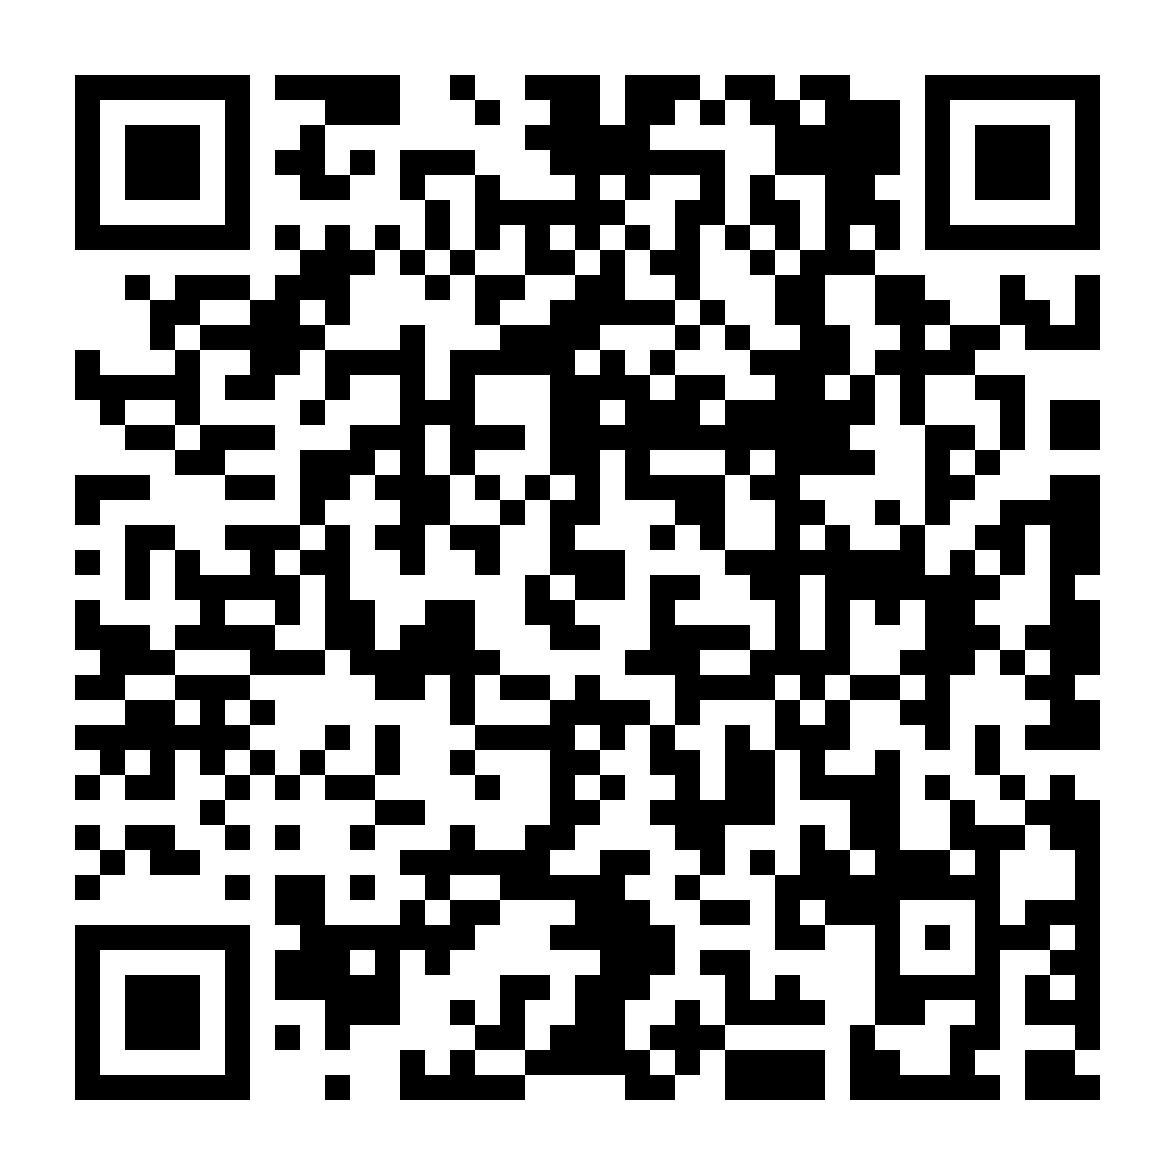
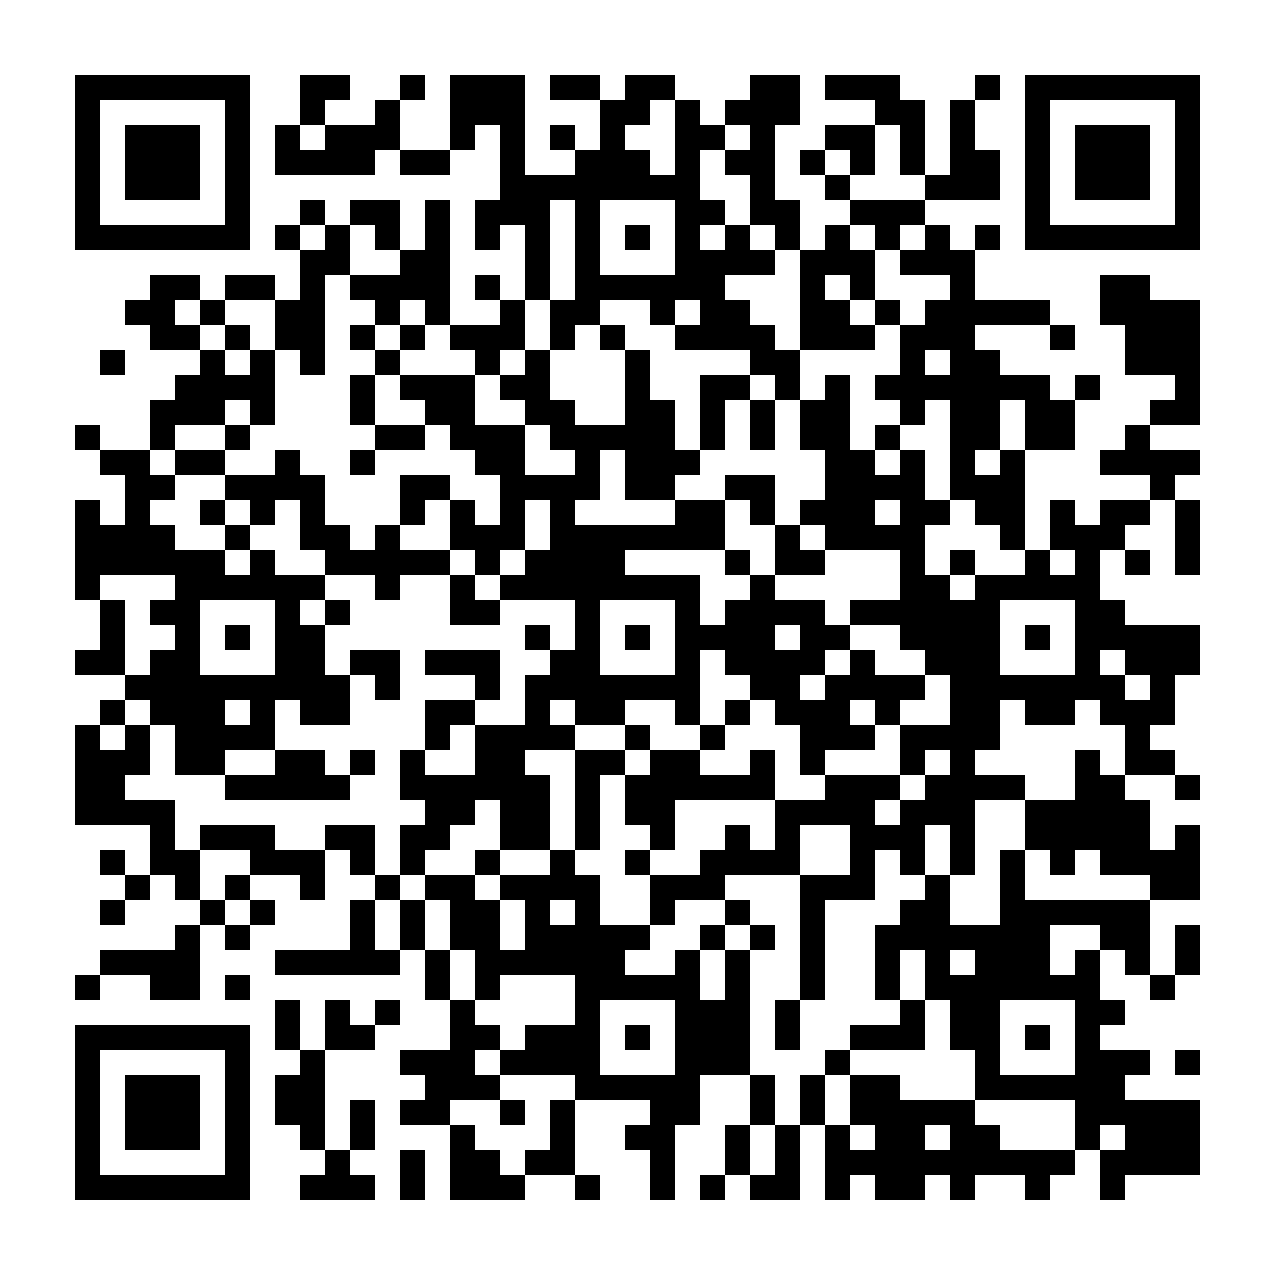
docs: update repository name to GHGT-Inertial-Separator and regenerate QR codes

diff --git a/README.md b/README.md
@@ -11,7 +11,7 @@ Official source code repository accompanying the research presentation at the **
 <p align="center">
   <img src="assets/qr_code_github.png" alt="GitHub Repository QR Code" width="160"/>
   <br>
-  <em>Scan QR code or visit <a href="https://github.com/Lukasz-Lasek-Lab/MsCO2limit">github.com/Lukasz-Lasek-Lab/MsCO2limit</a></em>
+  <em>Scan QR code or visit <a href="https://github.com/Lukasz-Lasek-Lab/GHGT-Inertial-Separator">github.com/Lukasz-Lasek-Lab/GHGT-Inertial-Separator</a></em>
 </p>
 
 ---
@@ -48,7 +48,7 @@ This framework introduces a high-performance **hybrid AI-driven metamodeling and
 ## Repository Structure
 
 ```text
-MsCO2limit/
+GHGT-Inertial-Separator/
 ├── .gitignore               # Strict exclusion of proprietary CFD data and model binaries
 ├── .env.example             # Optional environment variable template
 ├── LICENSE                  # MIT License (Łukasz Lasek, UJD)
@@ -93,8 +93,8 @@ MsCO2limit/
 ### 2. Clone and Setup Environment
 ```bash
 # Clone the repository
-git clone https://github.com/Lukasz-Lasek-Lab/MsCO2limit.git
-cd MsCO2limit
+git clone https://github.com/Lukasz-Lasek-Lab/GHGT-Inertial-Separator.git
+cd GHGT-Inertial-Separator
 
 # Create virtual environment
 python -m venv venv
@@ -199,12 +199,12 @@ python -m src --all-figures
 If you use this framework, parts of its methodology, or the poster presentation in your research, please cite:
 
 ```bibtex
-@article{MsCO2limit2026,
+@article{GHGT_Inertial_Separator_2026,
   title={Hybrid AI-driven Approach for Optimization and Geometric Analysis of Inertial Separators in Chemical Looping Systems},
   author={Lasek, {\L}ukasz and Contributors},
   journal={18th International Conference on Greenhouse Gas Control Technologies (GHGT)},
   year={2026},
-  url={https://github.com/Lukasz-Lasek-Lab/MsCO2limit}
+  url={https://github.com/Lukasz-Lasek-Lab/GHGT-Inertial-Separator}
 }
 ```
 
